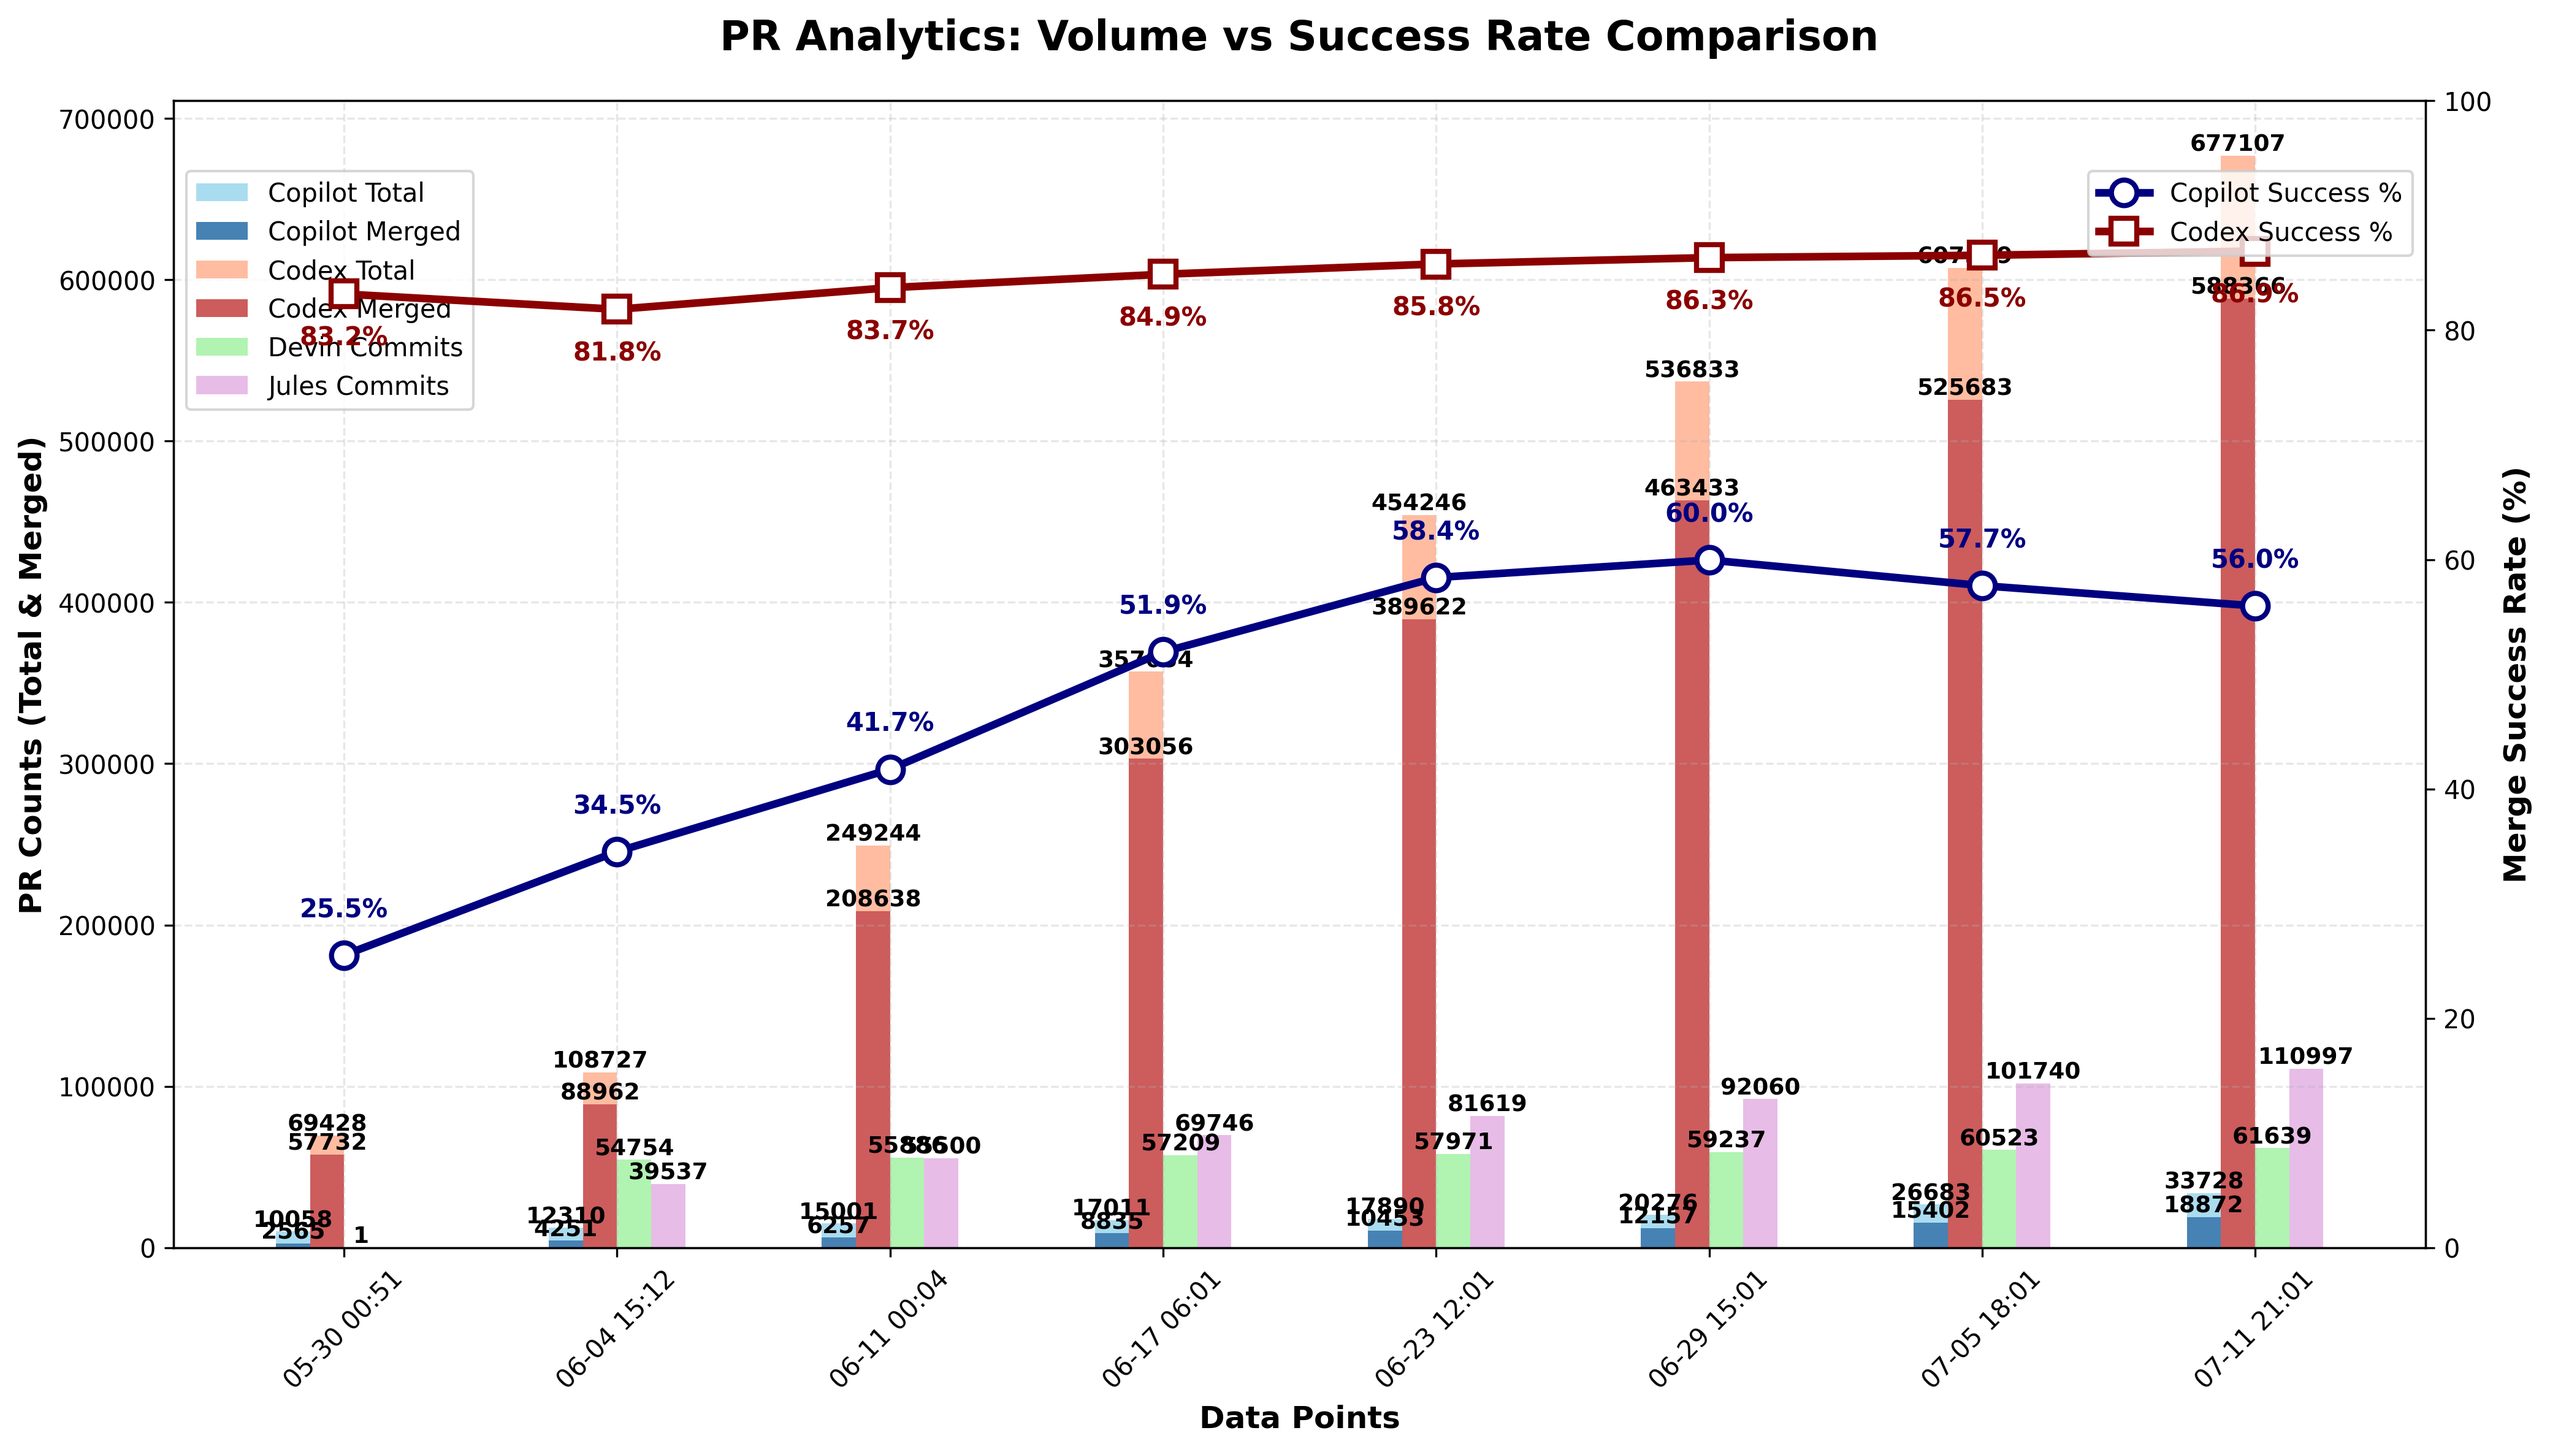
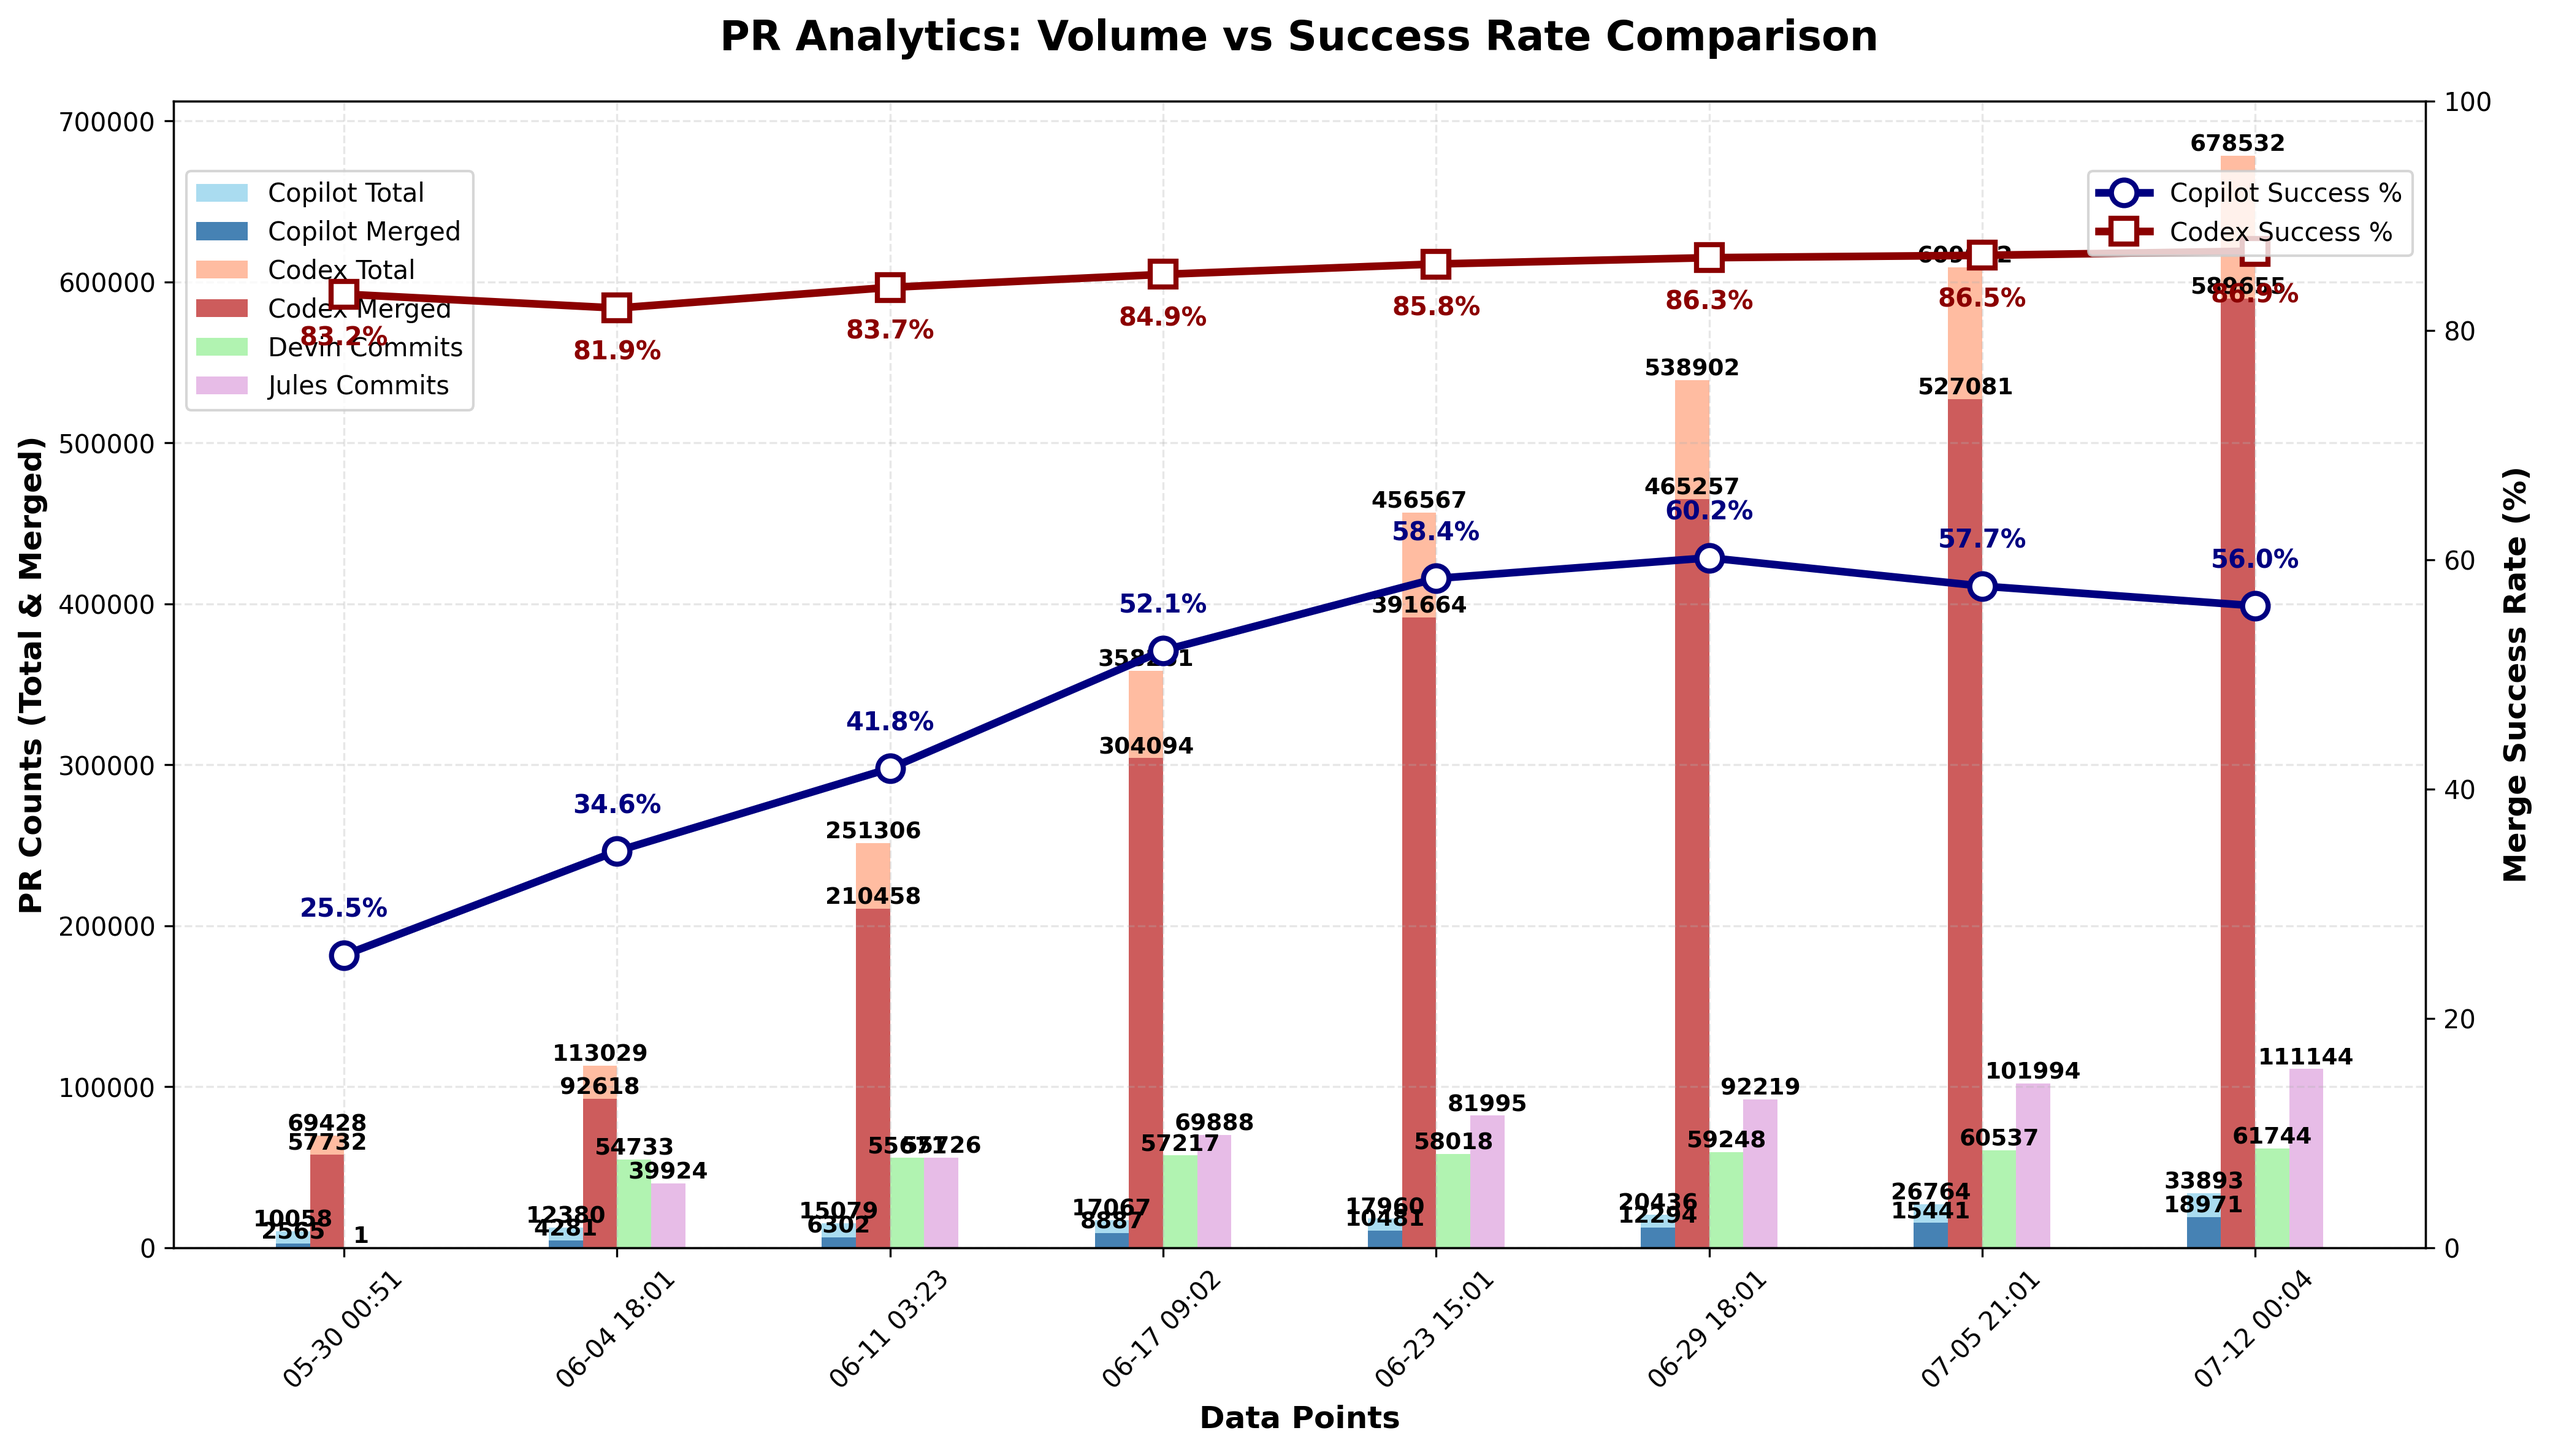
chore: update PR‑approval chart

diff --git a/docs/index.html b/docs/index.html
@@ -390,6 +390,7 @@
                         <td>N/A</td>
                         <td>N/A</td>
                         <td>N/A</td>
+                        <td>N/A</td>
                     </tr>
                     <tr>
                         <td>Codex</td>
@@ -738,27 +739,28 @@
                         <td>N/A</td>
                         <td>N/A</td>
                         <td>N/A</td>
+                        <td>N/A</td>
                     </tr>
                 <tr>
                         <td>Devin</td>
                         <td>N/A</td>
                         <td>N/A</td>
                         <td>N/A</td>
-                        <td>61,639</td>
+                        <td>61,744</td>
                     </tr>
                     <tr>
                         <td>Jules</td>
                         <td>N/A</td>
                         <td>N/A</td>
                         <td>N/A</td>
-                        <td>110,997</td>
+                        <td>111,144</td>
                     </tr>
                     </tbody>
             </table>
         </section>
 
         <footer>
-            <p>Last updated: <span id="last-updated">July 11, 2025 21:01 UTC</span></p>
+            <p>Last updated: <span id="last-updated">July 12, 2025 00:04 UTC</span></p>
             <p><a href="https://github.com/aavetis/ai-pr-watcher">View on GitHub</a></p>
         </footer>
     </div>

diff --git a/README.md b/README.md
@@ -19,7 +19,7 @@ Explore the GitHub search queries used:
 
 | Service | Total PRs | Merged PRs | Merge Rate | Total Commits |
 | ------- | --------- | ---------- | ---------- | ------------- |
-| Copilot | 33,728 | 18,872 | 55.95% | N/A           |
-| Codex   | 677,107 | 588,366 | 86.89% | N/A           |
-| Devin   | N/A       | N/A        | N/A        | 61,639 |
-| Jules   | N/A       | N/A        | N/A        | 110,997 |
+| Copilot | 33,893 | 18,971 | 55.97% | N/A           |
+| Codex   | 678,532 | 589,655 | 86.90% | N/A           |
+| Devin   | N/A       | N/A        | N/A        | 61,744 |
+| Jules   | N/A       | N/A        | N/A        | 111,144 |
